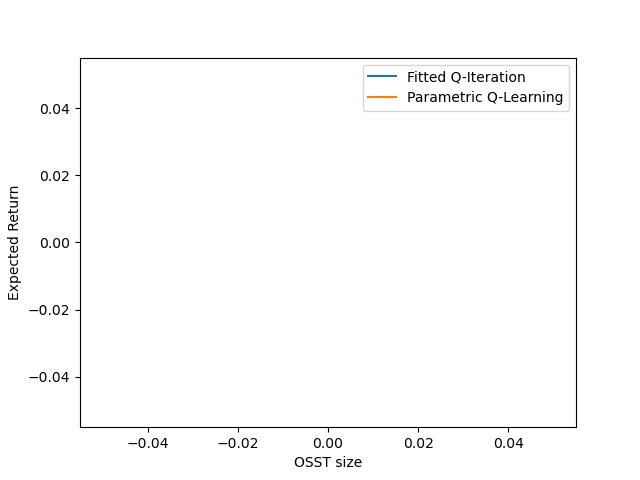
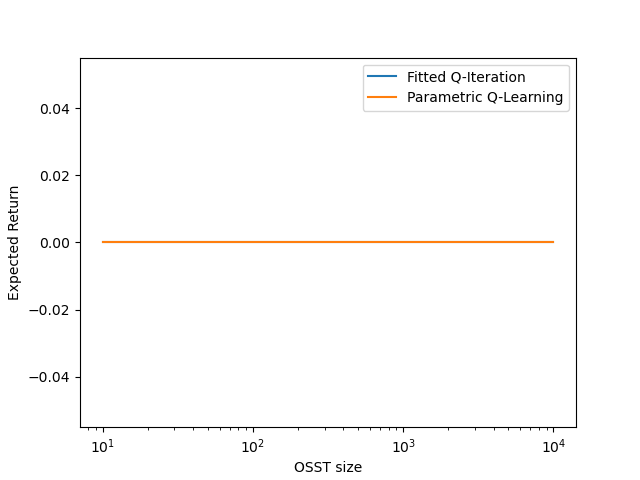
Coded the boilerplate from previous sections adapted for this one

diff --git a/code/section5.py b/code/section5.py
@@ -281,6 +281,7 @@ def main() -> None:
     plt.plot(OSST_SIZES, return_parametric, label="Parametric Q-Learning")
     plt.xlabel("OSST size")
     plt.ylabel("Expected Return")
+    plt.xscale("log")
     plt.legend()
     plt.savefig("figures/section5/returns/fitted_vs_parametric.png")
     plt.close()
